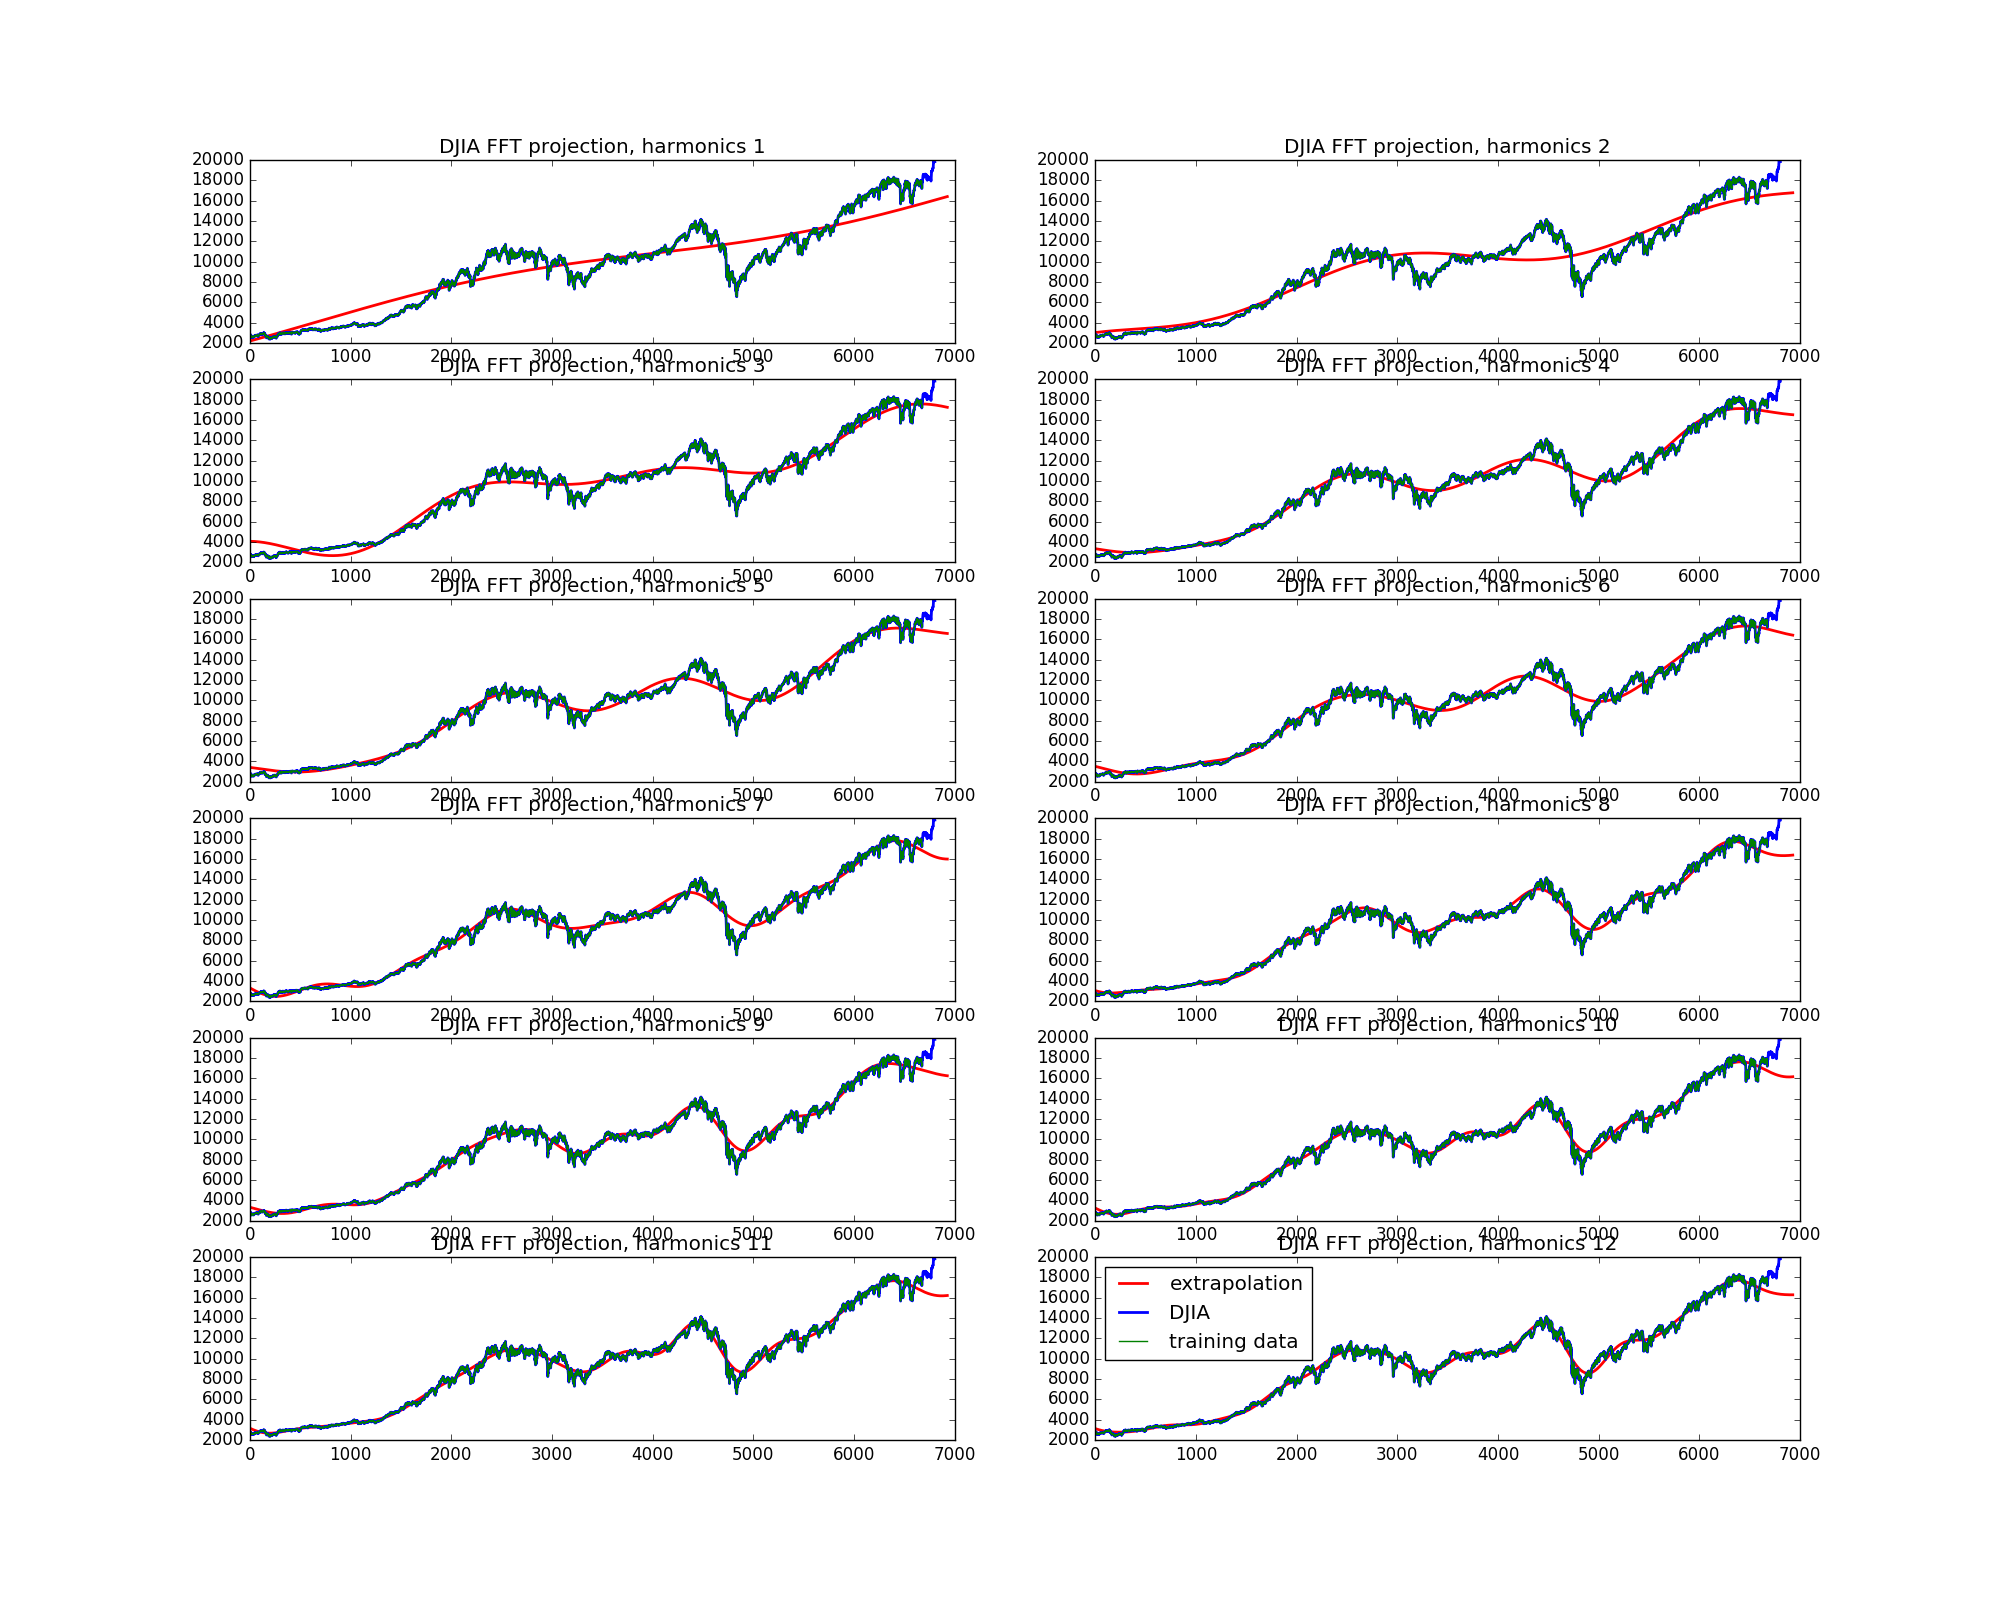
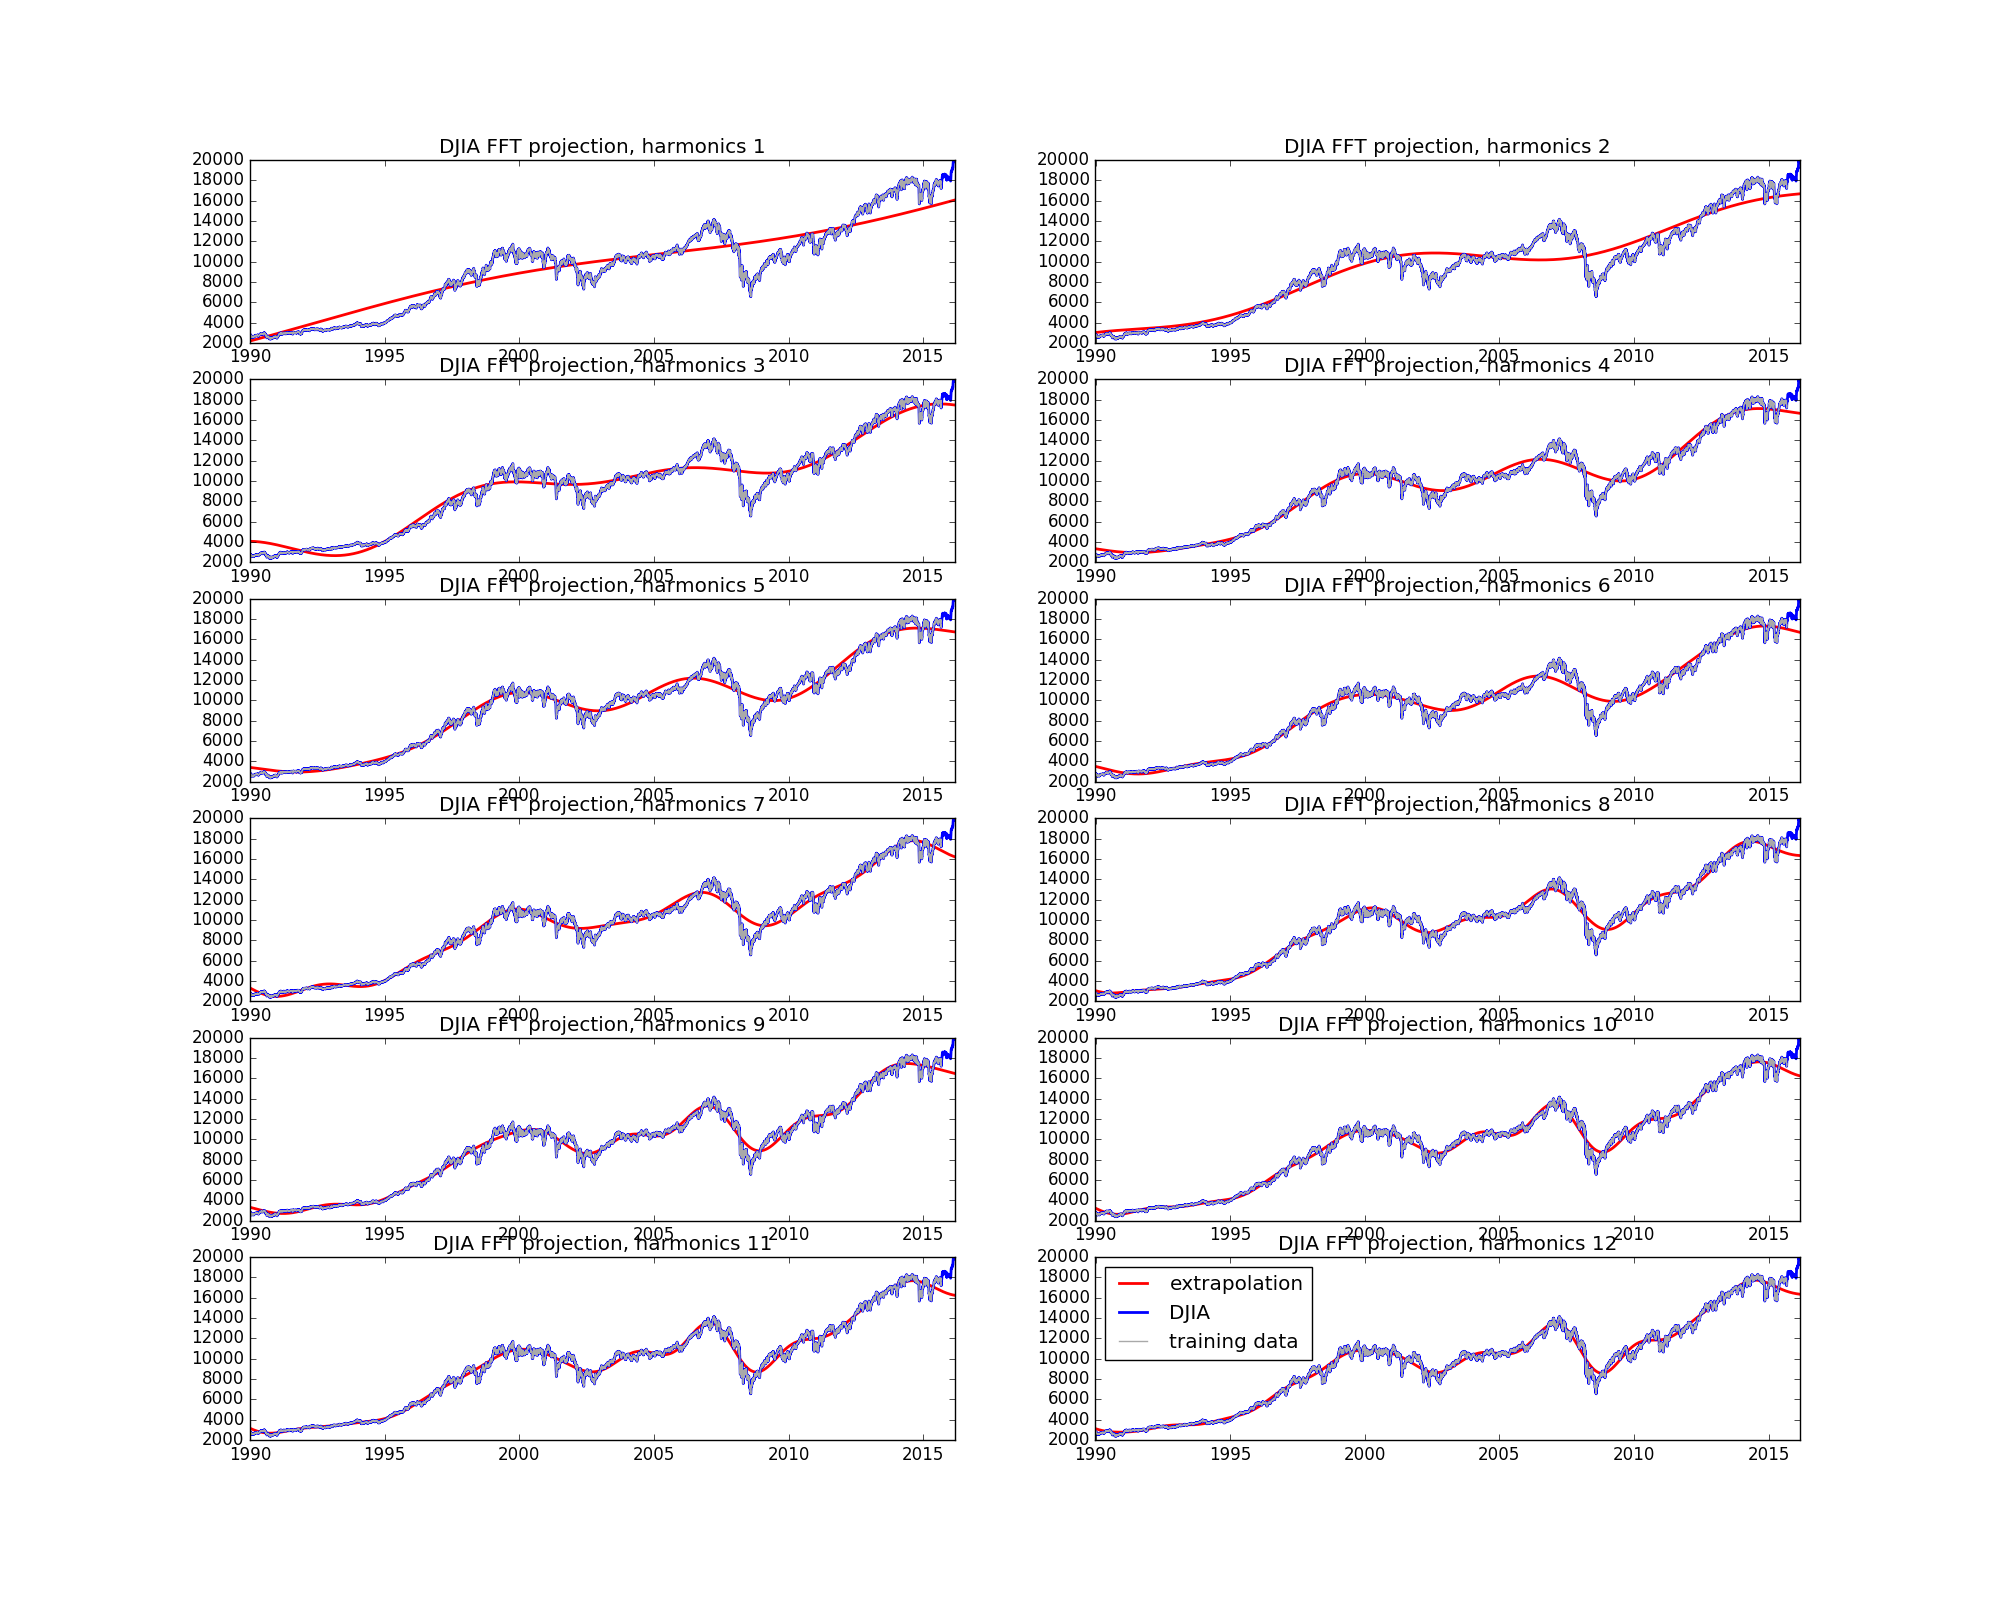
Minor plot and code improvements FFT predict stock index

diff --git a/FFT_Stock_Prediction.py b/FFT_Stock_Prediction.py
@@ -1,6 +1,7 @@
 # http://github.com/timestocome
 
 # Try using Fourier Series to predict market indexes
+# 3 harmonics seems to do a good job of predicting next quarter
 
 
 import pandas as pd 
@@ -45,27 +46,35 @@ def fourierEx(x, n_predict, harmonics):
 def plot_fft_djia():
 
     # pull out hold out data 
-    x = data.loc[data.index < '06-30-16']
+    x = data.loc[data.index < '06-30-2016']     # pull out 6 months data to check prediction
     x = x['DJIA']
     z = data['DJIA']
     
-
-    n_predict = 252         # number of data points to predict
-
+    # match this to hold out data count to properly line up plot lines
+    n_predict = 126         # number of data points to predict (5 week, 21 month, 63 quarter, 126 half year)
 
     fig, axs = plt.subplots(nrows=6, ncols=2, figsize=(20,16))
     axs = axs.ravel()
-    for h in range(1, 13):
+    plt.setp(axs, xticks=np.arange(1, 7000, step=1300), xticklabels=np.arange(1990, 2016, step=5))
+
+
+    i = 0
+    
+    
+    
+    for h in range(1,13):
 
         extrapolation = fourierEx(x, n_predict, h)
 
-        axs[h-1].set_title("DJIA FFT projection, harmonics %d" %(h))
-        axs[h-1].plot(np.arange(0, extrapolation.size), extrapolation, 'r', label='extrapolation', linewidth=2)
-        axs[h-1].plot(np.arange(0, len(z)), z, 'b', label='DJIA', linewidth=2)
-        axs[h-1].plot(np.arange(0, len(x)), x, 'g', label='training data', linewidth=1)
+        axs[i].set_title("DJIA FFT projection, harmonics %d" %(h))
+        axs[i].plot(np.arange(len(extrapolation)), extrapolation, 'r', label='extrapolation', linewidth=2)
+        axs[i].plot(np.arange(len(z)), z, 'b', label='DJIA', linewidth=2)
+        axs[i].plot(np.arange(len(x)), x, 'darkgray', label='training data', linewidth=1)
+
+        i += 1
 
 
-
+    
     plt.legend(loc=0)
     plt.savefig("FFT_DJIA.png")
     plt.show()
